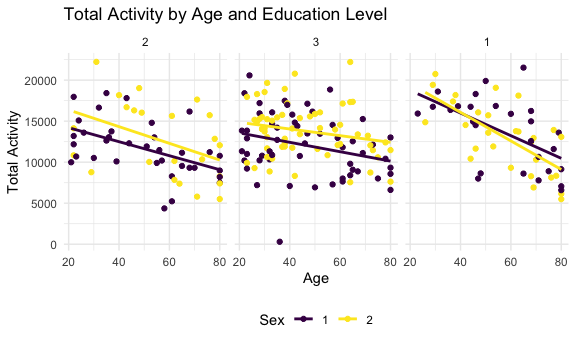
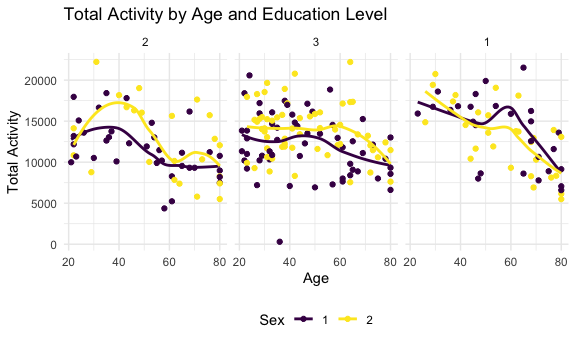
third plot for problem 2

Changed region(s): [[0.125, 0.2899, 0.4062, 0.4928], [0.4062, 0.3478, 0.6875, 0.4928], [0.7188, 0.2609, 0.9688, 0.4928]]

diff --git a/p8105_hw3_leb2236.md b/p8105_hw3_leb2236.md
@@ -144,7 +144,7 @@ accel_df = accel_df %>%
 accel_df%>%
   ggplot(aes(x = age, y = total_act, color = sex)) +
     geom_point() +  
-    geom_smooth(method = "lm", se = FALSE) +
+    geom_smooth(se = FALSE) +
     facet_wrap(~ education) + 
     labs(title = "Total Activity by Age and Education Level",
          x = "Age",
@@ -152,6 +152,35 @@ accel_df%>%
          color = "Sex")
 ```
 
-    ## `geom_smooth()` using formula = 'y ~ x'
+    ## `geom_smooth()` using method = 'loess' and formula = 'y ~ x'
 
 <img src="p8105_hw3_leb2236_files/figure-gfm/unnamed-chunk-6-1.png" width="90%" />
+
+INSERT COMMENTS ON THE PLOT ABOVE HERE
+
+Next I am creating a three-panel plot that shows the 24 hour activity
+time courses for each education level. Sex is labeled using color.
+
+``` r
+accel_df_long = accel_df %>%
+  pivot_longer(
+    cols = starts_with("min"),
+    names_to = "minute",
+    values_to = "mims",
+    names_prefix = "min"
+  ) %>%
+  mutate(minute = as.numeric(minute))
+
+accel_df_long %>%
+  ggplot(aes(x=minute, y = mims, color = sex))+
+  geom_smooth(se=FALSE)+
+  facet_wrap(.~education, ncol = 1)+
+  labs(title = "24-hour Activity Time Courses for Education Levels by Sex",
+       x = "Minutes",
+       y = "Activity Level (MIMS)",
+       color = "Sex")
+```
+
+    ## `geom_smooth()` using method = 'gam' and formula = 'y ~ s(x, bs = "cs")'
+
+<img src="p8105_hw3_leb2236_files/figure-gfm/unnamed-chunk-7-1.png" width="90%" />
